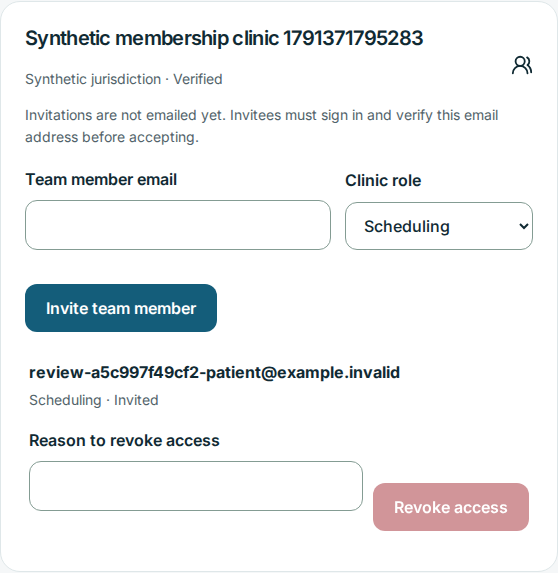
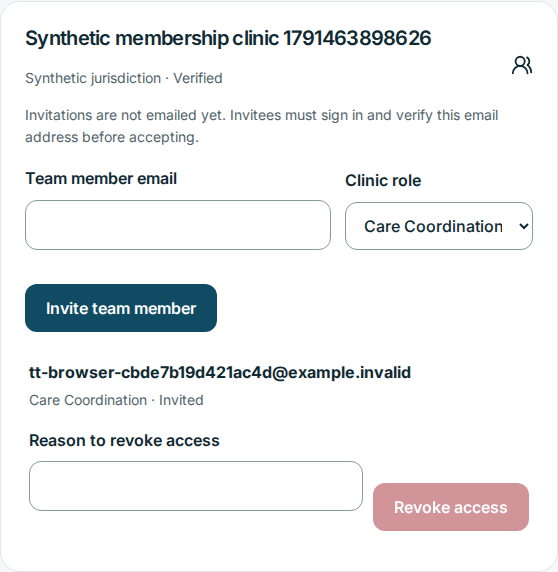
test(clinics): verify care coordination summary workspace

diff --git a/docs/operational-progress-export.md b/docs/operational-progress-export.md
@@ -13,11 +13,15 @@
   later API reads.
 - Frappe 15.121.2 on `tele-tena-pr12-fresh.localhost`: presentation suite
   45/45 and integration suite 24/24 passed. Frontend build passed; lint exited
-  0 with existing warnings. The new screens still need built-browser review and
-  screenshot evidence. Fresh-site install and Frappe 16 compatibility for this
-  addition remain pending.
-- Review URL remains `http://127.0.0.1:8017/teletena/`; it has not yet been
-  rebuilt/reloaded from this uncommitted branch.
+  0 with existing warnings. The built Frappe browser flow verified Care Coordination invitation/acceptance,
+  role-scoped clinic workspace access, the consultation-summary empty state,
+  manager revocation, and no horizontal overflow at 320/390/768/1440 CSS px.
+  Screenshots: `docs/screenshots/clinic-staff-workspace/staff-workspace-{390,1440}.png`.
+  Fresh-site install and Frappe 16 compatibility for this addition remain pending.
+- Production assets were built for source `4e7d06dc4edeb07307ff53be4b6fefdd844878cf`,
+  deployed to the isolated local review server, and `GET /teletena/` returned 200.
+  The release manifest pins that SHA; documentation/test-only changes after the
+  build will be repackaged at the final branch head.
 
 
 ## Current local checkpoint — credential-verification provenance — 2026-10-08

diff --git a/docs/product-contract.md b/docs/product-contract.md
@@ -265,8 +265,9 @@ expiry, cancellation, or completion also closes access. This does not grant
 clinical-record access. Scheduling and Billing roles are currently descriptive and do not expose
 calendar, resource, or billing capabilities. Clinic Manager may manage clinic
 memberships only. Clinic verification and affiliation never enable clinic
-calendars/resources, clinic billing, or clinic-wide patient records. Existing narrative affiliation fields are preserved and are
-not automatically converted into verified affiliations. Native DocType schema
+calendars/resources, clinic billing, or clinic-wide patient records. Existing
+narrative affiliation fields are preserved and are not automatically converted
+into verified affiliations. Native DocType schema
 is additive and synchronized by normal Frappe migration.
 
 Verified Clinic Manager and Scheduling memberships (and a verified clinic
